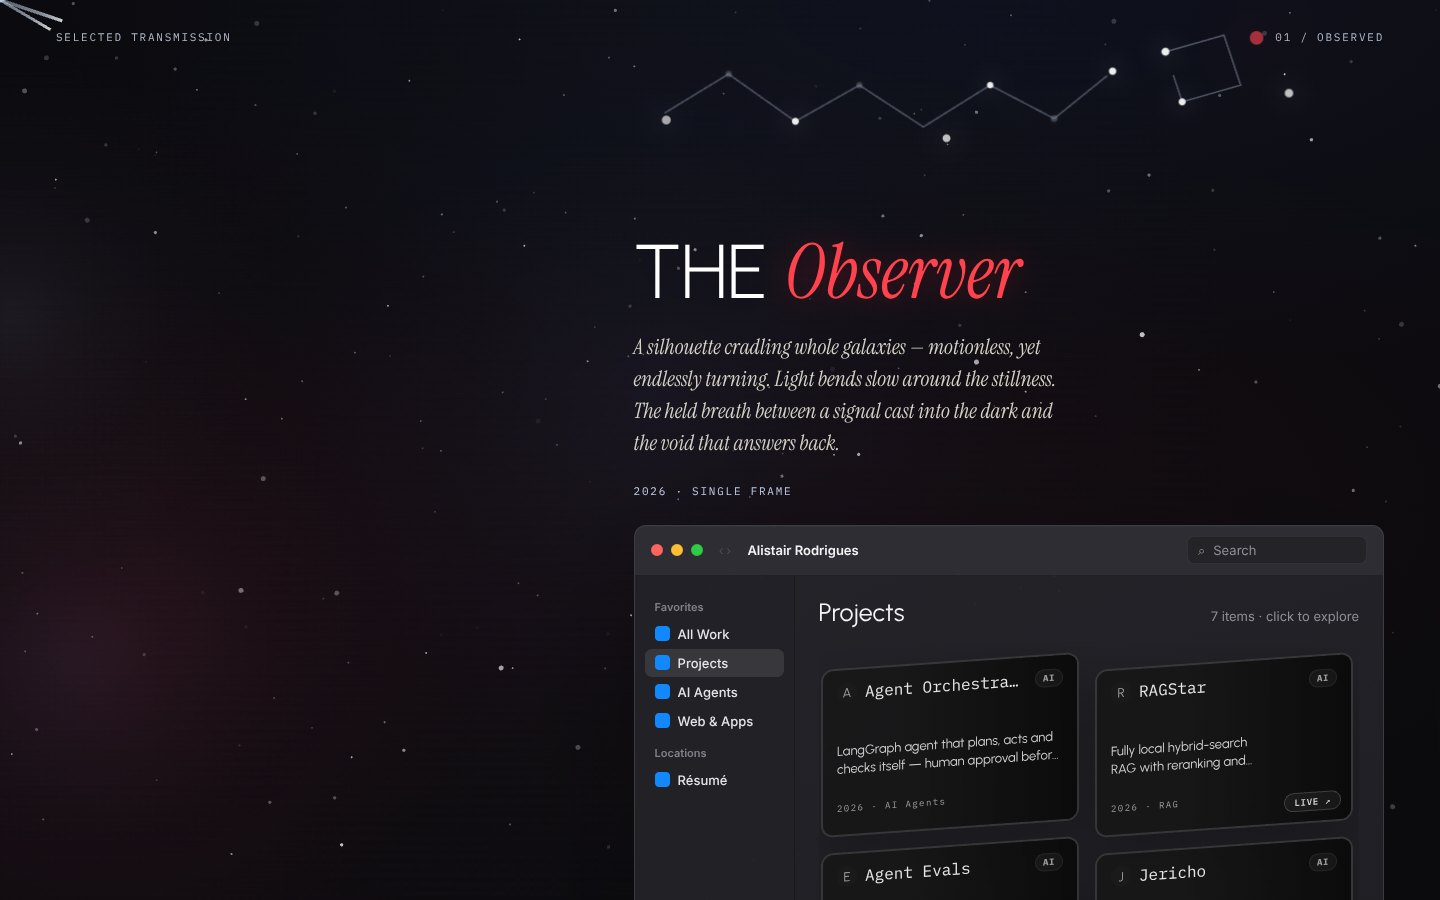
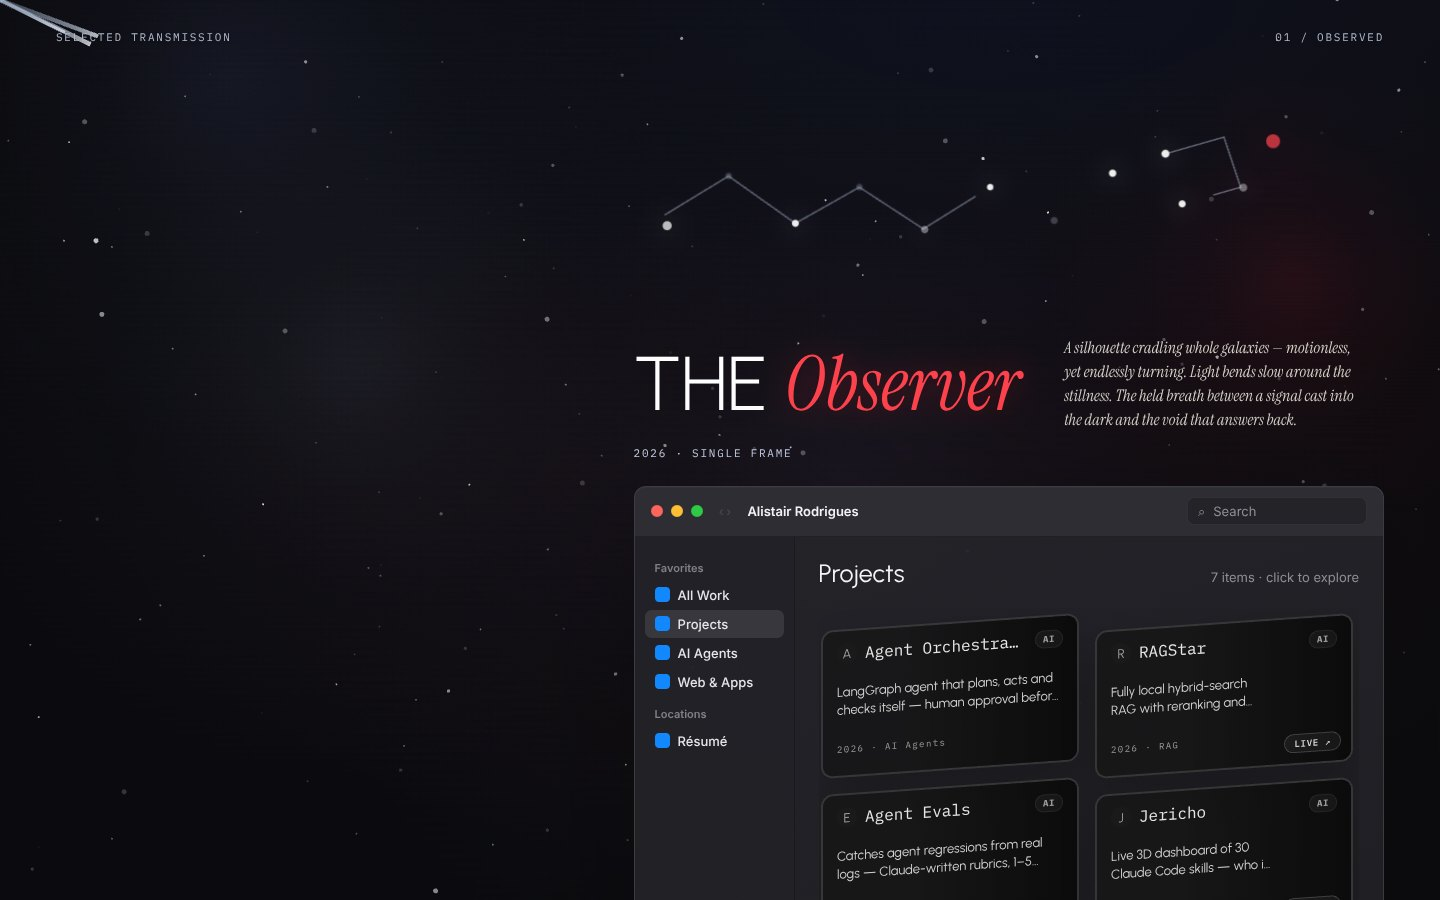
Observer: poem beside the title, Finder right below; tighter cards
- The poem now sits beside "THE Observer" (stacked again under 1180px where
  the column is too narrow), so the Finder follows the title directly.
- Project cards slightly shorter (10.5rem -> 9.25rem) and every description
  reserves two lines, so all cards line up the same way.
- README observer/work screenshots refreshed.

Claude-Session: https://claude.ai/code/session_015pYCkSWb3QZMS1jhky79RR

diff --git a/index.html b/index.html
@@ -393,7 +393,7 @@
 
   /* ---- Finder Projects — observer-style clickable cards ---- */
   .desktop-pane .df-cards{grid-column:1/-1;display:grid;grid-template-columns:repeat(auto-fill,minmax(210px,1fr));gap:var(--space-4);padding:14px 6px 14px 2px;
-    max-height:38rem;overflow-y:auto;scrollbar-width:thin;scrollbar-color:transparent transparent;transition:scrollbar-color .3s}
+    max-height:34rem;overflow-y:auto;scrollbar-width:thin;scrollbar-color:transparent transparent;transition:scrollbar-color .3s}
   /* six cards (three rows) fit; the grid scrolls once it outgrows that, its scrollbar shows on hover */
   .desktop-pane .df-cards:hover{scrollbar-color:rgba(233,228,223,.28) transparent}
   .desktop-pane .df-cards::-webkit-scrollbar{width:6px}
@@ -404,7 +404,7 @@
     font-family:var(--font-mono);font-size:var(--text-2xs);font-weight:500;letter-spacing:.08em;text-transform:uppercase;text-decoration:none;
     color:#ffd9dc;background:rgba(211,18,31,.22);border:1px solid rgba(255,59,71,.45);transition:background .2s,color .2s,box-shadow .2s}
   .desktop-pane .df-card__live:hover,.desktop-pane .df-card__live:focus-visible{background:#d3121f;color:#fff;box-shadow:0 0 16px rgba(211,18,31,.6)}
-  .desktop-pane .df-card{position:relative;display:flex;flex-direction:column;justify-content:space-between;height:10.5rem;user-select:none;border:2px solid rgba(174,182,200,.16);border-radius:12px;background:rgba(20,22,30,.66);padding:12px 14px;transform:skewY(-4deg);transition:border-color .6s ease,background .6s ease,filter .6s ease,transform .6s ease;filter:grayscale(1);box-shadow:0 18px 50px rgba(0,0,0,.3);cursor:pointer;text-decoration:none;color:inherit;overflow:hidden}
+  .desktop-pane .df-card{position:relative;display:flex;flex-direction:column;justify-content:space-between;height:9.25rem;user-select:none;border:2px solid rgba(174,182,200,.16);border-radius:12px;background:rgba(20,22,30,.66);padding:12px 14px;transform:skewY(-4deg);transition:border-color .6s ease,background .6s ease,filter .6s ease,transform .6s ease;filter:grayscale(1);box-shadow:0 18px 50px rgba(0,0,0,.3);cursor:pointer;text-decoration:none;color:inherit;overflow:hidden}
   .desktop-pane .df-card::before{content:"";position:absolute;inset:0;border-radius:10px;background:rgba(3,3,7,.38);transition:opacity .6s ease;pointer-events:none}
   .desktop-pane .df-card::after{content:"";position:absolute;top:-4%;right:-3px;width:70%;height:108%;background:linear-gradient(to left,#030307,transparent);pointer-events:none}
   .desktop-pane .df-card:hover,.desktop-pane .df-card.is-selected{border-color:rgba(255,255,255,.24);background:rgba(28,30,40,.85);filter:grayscale(0);transform:skewY(-4deg) translateY(-8px)}
@@ -418,7 +418,7 @@
   .desktop-pane .df-card__tag--ai{background:rgba(211,18,31,.18);color:#ff8088;border:1px solid rgba(211,18,31,.3)}
   .desktop-pane .df-card__tag--fullstack{background:rgba(179,33,158,.18);color:#e7a3dc;border:1px solid rgba(179,33,158,.3)}
   .desktop-pane .df-card__tag--mobile{background:rgba(255,106,19,.18);color:#ffb27d;border:1px solid rgba(255,106,19,.3)}
-  .desktop-pane .df-card__desc{font-size:var(--text-sm);color:#d4d0c6;margin-top:auto;padding-bottom:2px;line-height:1.4;overflow:hidden;display:-webkit-box;-webkit-box-orient:vertical;-webkit-line-clamp:2}
+  .desktop-pane .df-card__desc{font-size:var(--text-sm);color:#d4d0c6;margin-top:auto;padding-bottom:2px;line-height:1.4;min-height:2.8em;overflow:hidden;display:-webkit-box;-webkit-box-orient:vertical;-webkit-line-clamp:2}
   .desktop-pane .df-card:has(.df-card__live) .df-card__desc{padding-right:64px}
   .desktop-pane .df-card__date{font-family:var(--font-mono);font-size:var(--text-2xs);letter-spacing:var(--tr-label);color:#8f98ad}
 
@@ -620,7 +620,13 @@
 
   /* ---- OBSERVER · macOS Finder desktop embedded ---- */
   .obs-main{position:absolute;left:max(44%,540px);right:clamp(22px,4vw,56px);top:0;bottom:0;z-index:2;display:flex;flex-direction:column;justify-content:center;gap:26px;padding:120px 0 46px}
-  .obs-main .obs-intro{flex-shrink:0}
+  .obs-main .obs-intro{flex-shrink:0;display:grid;grid-template-columns:auto minmax(0,1fr);column-gap:clamp(24px,3vw,44px);align-items:center}
+  /* the poem sits beside the title, so the Finder comes straight after it */
+  .obs-intro .hydra-const{grid-column:1/-1}
+  .obs-intro h2{grid-row:2}
+  .obs-poem{grid-row:2;font-family:var(--font-serif);font-style:italic;font-size:var(--text-base);line-height:1.5;color:#d4d0c6;margin:0;max-width:40ch}
+  .obs-frame{grid-column:1/-1;display:inline-block;margin-top:14px;font-family:var(--font-mono);font-size:var(--text-xs);letter-spacing:var(--tr-label);color:#c7d2ea}
+  @media (max-width:1180px){.obs-main .obs-intro{display:block}.obs-poem{margin-top:16px}}   /* too narrow to sit side by side */
   .obs-main .desktop-window{width:100%;margin:0;flex-shrink:0}
   .obs-main .desktop-grid{grid-template-columns:160px 1fr}
   .obs-main .desktop-files{grid-template-columns:repeat(3,1fr)}
@@ -1224,8 +1230,8 @@
         <circle cx="394" cy="84" r="2.5" />
       </svg>
       <h2 style="font-style:normal;font-weight:300;font-family:var(--font-display);font-size:var(--text-4xl);line-height:1.02;letter-spacing:-.01em;color:#fff;margin:0;text-shadow:0 4px 36px rgba(0,0,0,.5);text-transform:uppercase">The <em class="etch-accent">Observer</em></h2>
-      <p class="scramble-text" style="font-family:var(--font-serif);font-style:italic;font-size:calc(var(--text-lg) * 1.12);line-height:1.5;color:#d4d0c6;margin:20px 0 0;max-width:44ch">A silhouette cradling whole galaxies — motionless, yet endlessly turning. Light bends slow around the stillness. The held breath between a signal cast into the dark and the void that answers back.</p>
-      <span style="display:inline-block;margin-top:24px;font-family:var(--font-mono);font-size:var(--text-xs);letter-spacing:var(--tr-label);color:#c7d2ea">2026 · SINGLE FRAME</span>
+      <p class="scramble-text obs-poem">A silhouette cradling whole galaxies — motionless, yet endlessly turning. Light bends slow around the stillness. The held breath between a signal cast into the dark and the void that answers back.</p>
+      <span class="obs-frame">2026 · SINGLE FRAME</span>
       </div>
       <div class="desktop-window">
       <div class="desktop-bar">
